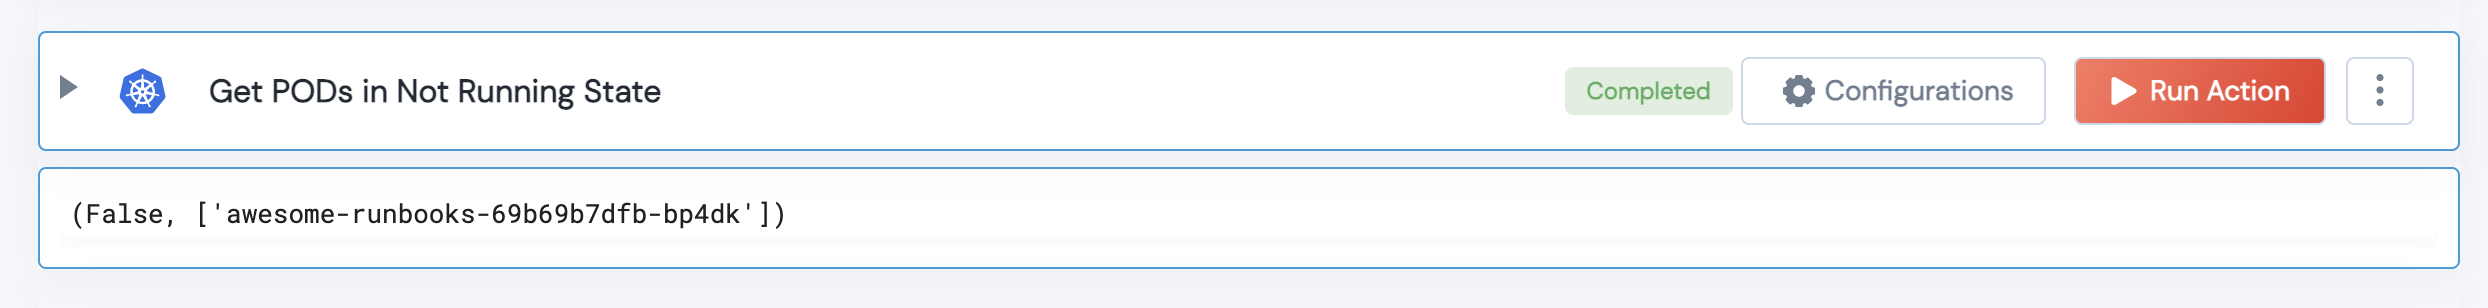
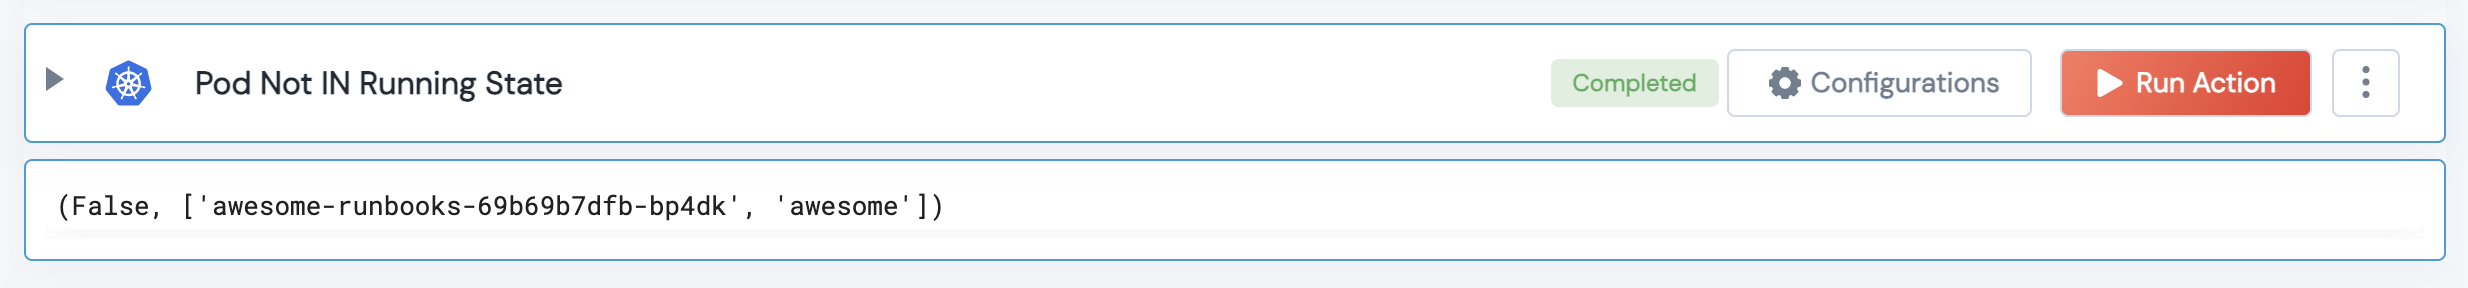
PR Comments

diff --git a/Kubernetes/legos/k8s_get_pods_in_not_running_state/k8s_get_pods_in_not_running_state.py b/Kubernetes/legos/k8s_get_pods_in_not_running_state/k8s_get_pods_in_not_running_state.py
@@ -31,12 +31,12 @@ def k8s_get_pods_in_not_running_state(handle) -> Tuple:
     if handle.client_side_validation != True:
         raise Exception(f"K8S Connector is invalid {handle}")
 
-    kubectl_command = "kubectl get pods --all-namespaces --field-selector=status.phase!=Running -o name | cut -d'/' -f 2"
+    kubectl_command = "kubectl get pods --all-namespaces --field-selector=status.phase!=Running -o jsonpath=\"{.items[*]['metadata.name', 'metadata.namespace']}\""
     result = handle.run_native_cmd(kubectl_command)
     if result.stderr:
         raise Exception(f"Error occurred while executing command {result.stderr}")
     
     if result.stdout:
-        return (False, [result.stdout])
+        return (False, [result.stdout.split()])
     
     return (True, [])

diff --git a/Kubernetes/legos/k8s_get_failed_deployments/k8s_get_failed_deployments.py b/Kubernetes/legos/k8s_get_failed_deployments/k8s_get_failed_deployments.py
@@ -33,9 +33,12 @@ def k8s_get_failed_deployments(handle) -> Tuple:
     deployments = apps_client.list_deployment_for_all_namespaces().items 
     retval = {} 
     for deployment in deployments:
+        # FIXME. Check for deployment.status.condition 
         if deployment.status.available_replicas == 0:
             retval.update(deployment)
     
+    # FIXME: Add print for diagnostic. 
+    # Return deployment name and namespace in a Tuple. 
     if not retval:
         return (False, [retval])
     
